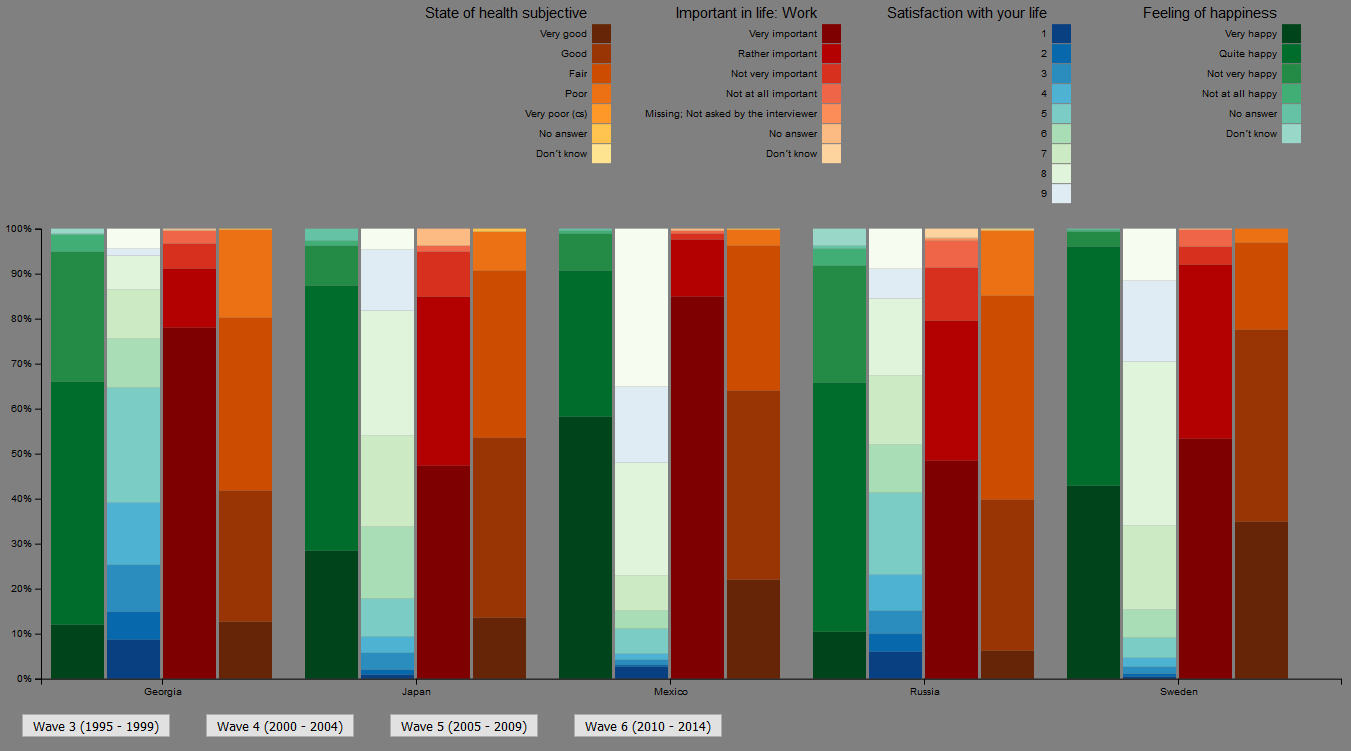
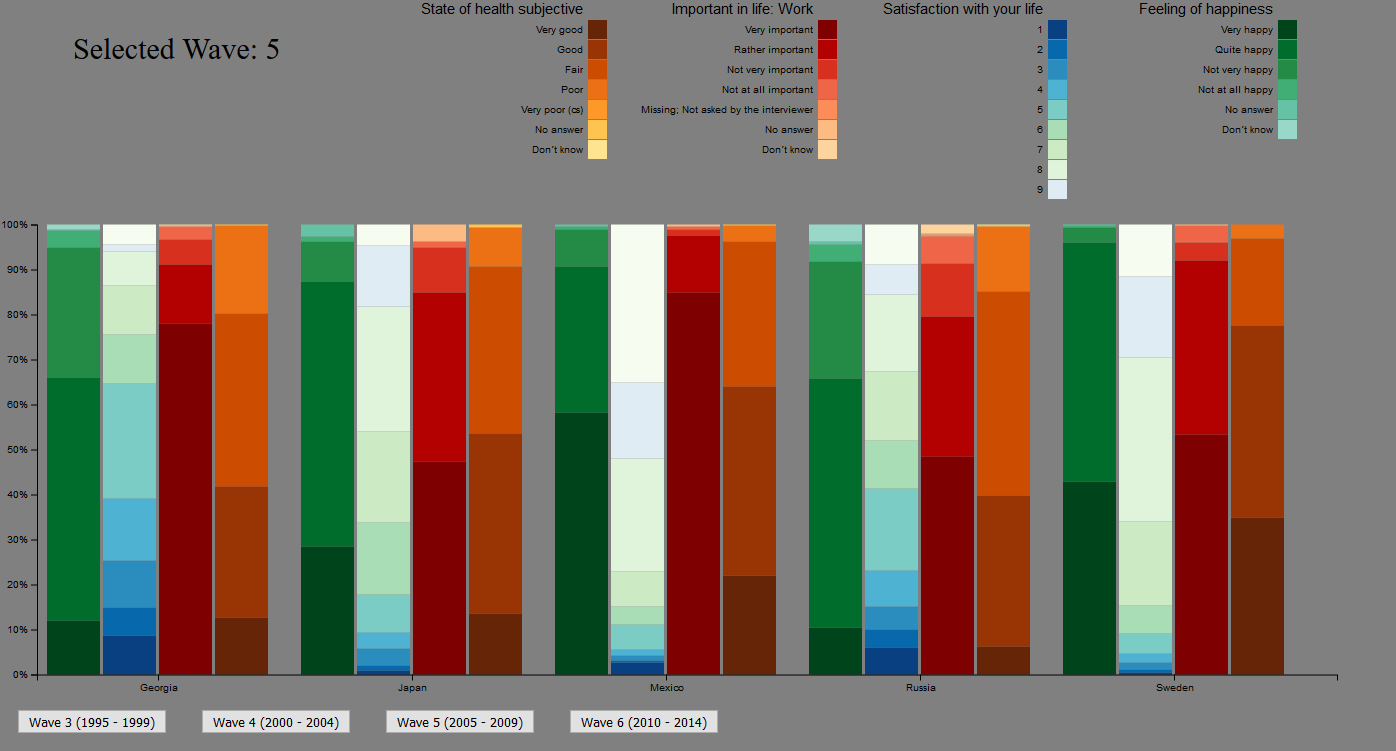
Done with the visualization and the analytic trails.

diff --git a/Visualizing the World Through its Own Worldview/GroupedBubbleChart.html b/Visualizing the World Through its Own Worldview/GroupedBubbleChart.html
@@ -46,7 +46,7 @@
     <button id="wave6Button" class="waveButton">Wave 6 (2010 - 2014)</button>
   </div>
   <!-- The first analytic trail -->
-  <div class="header" style="width:40%">
+  <div class="header">
     <h1> Analytic trail 1</h1>
     <p>
       My idea was to reasearch how citizens of different countries 
@@ -54,7 +54,7 @@
       I found some variables that I though would correlate a bit with the happiness the citizens felt.
       In my visualization the user first selects the countries which are to be compared. 
     </p>
-    <img class="resize" src="Images/BubbleChart.png"/>
+    <img class="" src="Images/BubbleChart.png"/>
     <p>
       Then a set of variables are selected.
     </p>
@@ -63,10 +63,45 @@
       In the bar chart below we can compare the selected variables. 
       If we start by comparing the bars for "Feeling of happiness" and
       "Satisfaction with your life" we see that they are correlated 
-      (which was not a big suprise).
+      (which may not have been such a big suprise).
     </p>
     <img src="Images/BarChart.png" />
-
+    <p>
+      We can also select which wave should be shown.
+    </p>
+    <img src="Images/BarChart_Wave6.png" />
+  </div>
+  <div class="header">
+    <h2> Analytic trail 2 </h2>
+    <p>
+      In the second analytic trail I made use of the Gapminder data by mapping it to the "country bubbles". 
+      Since Gapminder has a lot of financial and health data, I took the opportunity to compare happiness to 
+      wealth and health. Here we see the alcohol consumption mapped to the size:
+    </p>
+    <img src="Images/BubbleChart_Alcohol.png" />
+    <p>
+      My hypotesis was that this data was invered correlated to happiness and state of health. 
+    </p>
+    <img src="Images/BarChart2.png" />
+    <p>
+      According to this bar chart the "high drinkers" have few citizens that are very happy. 
+      But on the other hand so does Egypt which is a drinking country.
+      If we take a look at the state of health we see that the high drinking countries
+      have less citizens with good health, than the low drinking countries.
+      Even though alcohol has a lot of damaging effects on the body,
+      it could not be the only factor causing bad health, because the margins are not that big.
+      But it could be a big part of it.   
+    </p>
+  </div>
+  <div class="header">
+    <h2> Learning </h2>
+    <p>
+      From this task I have learnt a lot about D3 and how to create different visual structures.
+      My previous experience with JavaScript is limited, 
+      so to make the D3 visualizations has been a lot of work for me.
+      If I would have had more time then I would make the webpage look more pretty and also add animations to the visualizations.
+      There is also some bugs that I have not yet fixed, but if I have time later on I will fix them.  
+    </p>
   </div>
   <!-- D3 scripts-->
   <script src="http://d3js.org/d3.v4.min.js"></script>

diff --git a/Visualizing the World Through its Own Worldview/CSS/MyCSS.css b/Visualizing the World Through its Own Worldview/CSS/MyCSS.css
@@ -29,6 +29,7 @@ p{
 .header{
   margin-left: 20px;
   align-items:center;
+  width: 40%;
 }
 
 img.resize{
